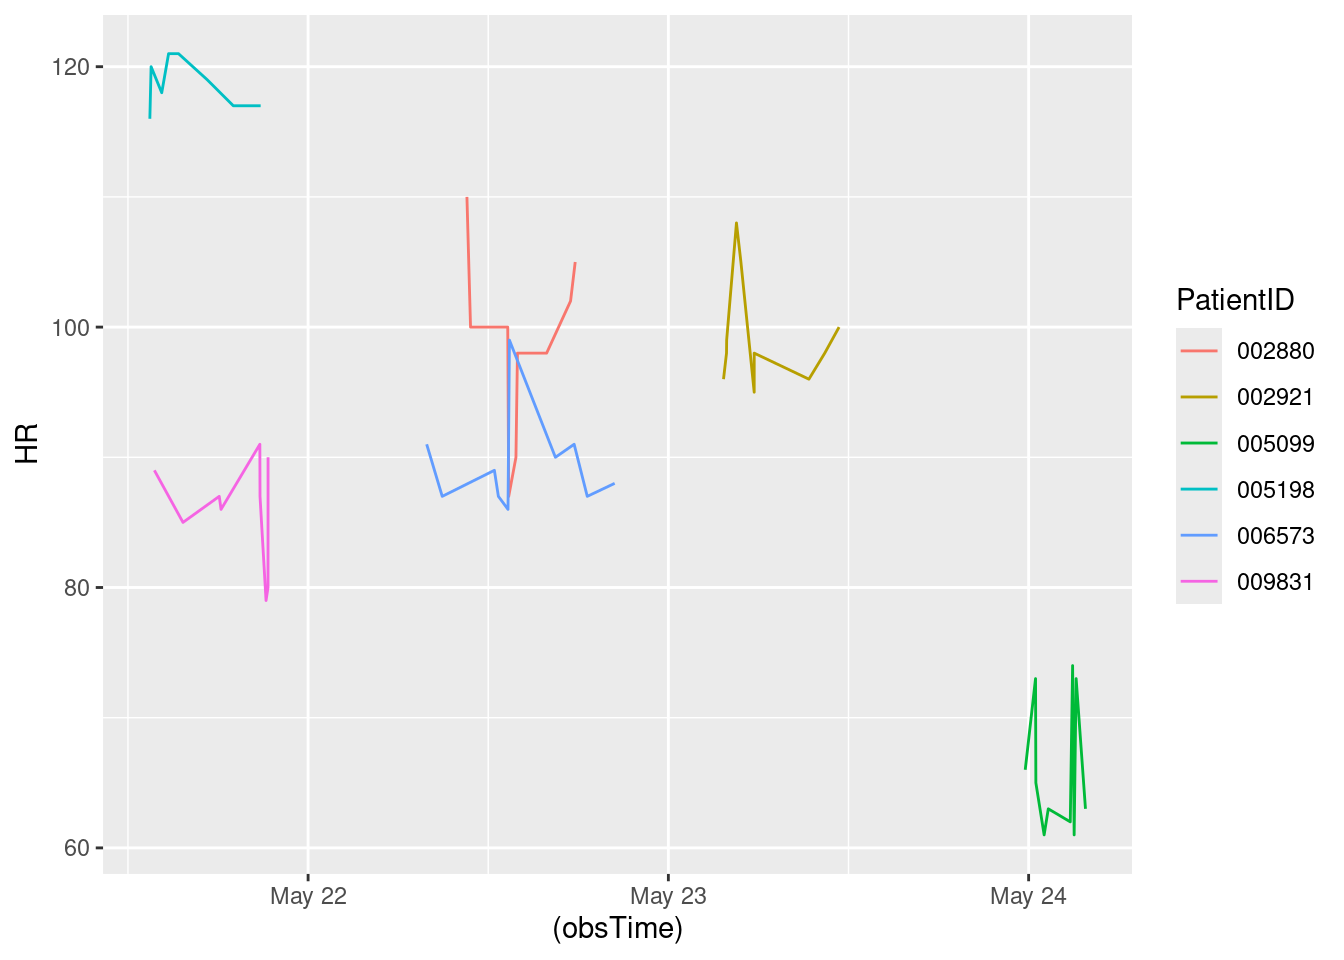
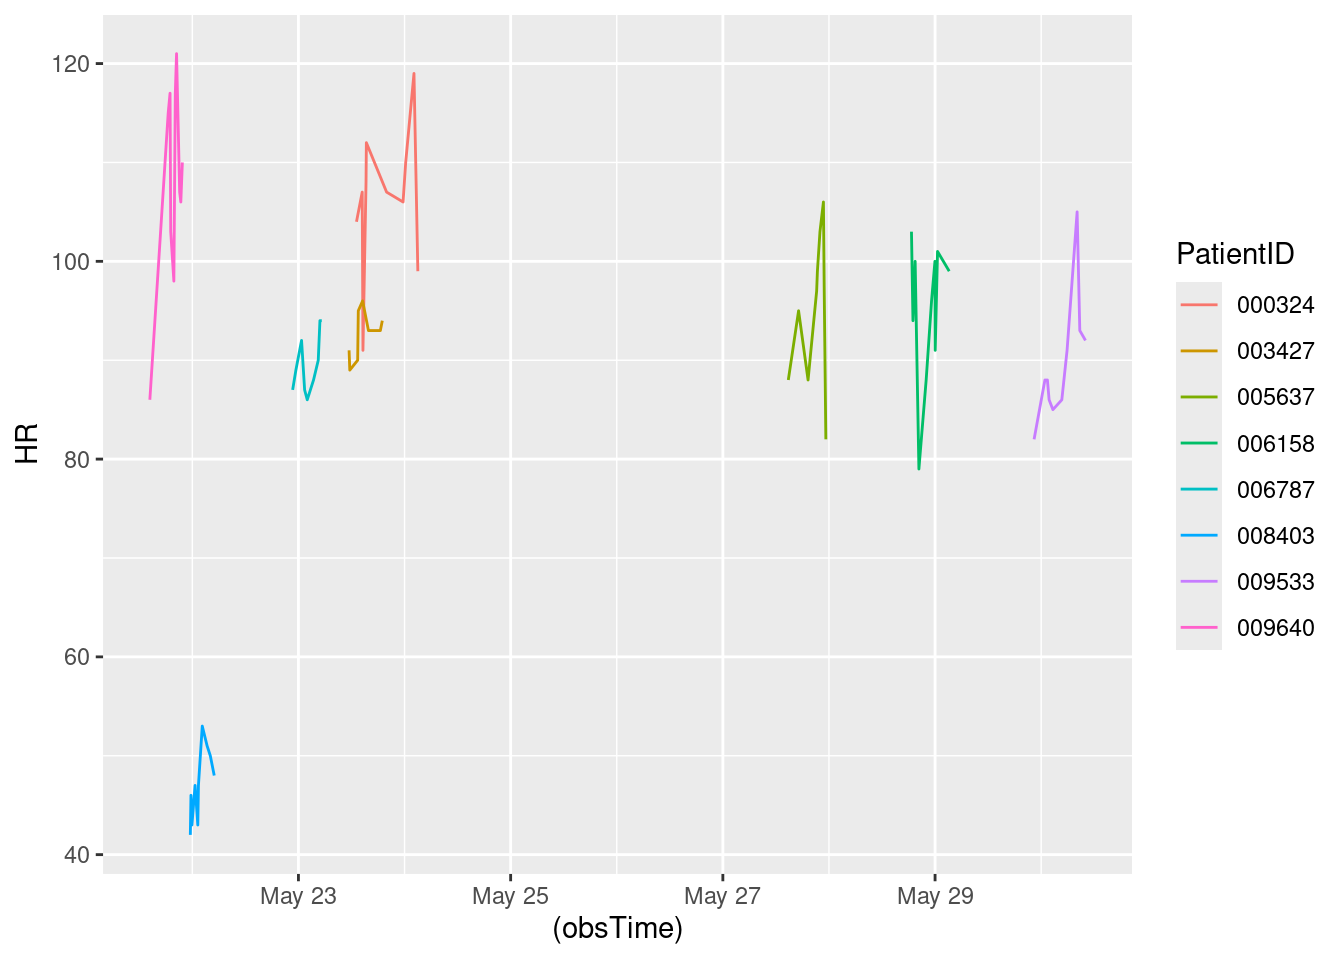
Updated report

diff --git a/HW7.html b/HW7.html
@@ -152,7 +152,7 @@ The following object is masked from 'package:purrr':
 </div>
 <div class="sourceCode cell-code" id="cb8"><pre class="sourceCode r code-with-copy"><code class="sourceCode r"><span id="cb8-1"><a href="#cb8-1" aria-hidden="true" tabindex="-1"></a><span class="fu">toc</span>()</span></code><button title="Copy to Clipboard" class="code-copy-button"><i class="bi"></i></button></pre></div>
 <div class="cell-output cell-output-stdout">
-<pre><code>16.273 sec elapsed</code></pre>
+<pre><code>12.818 sec elapsed</code></pre>
 </div>
 <div class="sourceCode cell-code" id="cb10"><pre class="sourceCode r code-with-copy"><code class="sourceCode r"><span id="cb10-1"><a href="#cb10-1" aria-hidden="true" tabindex="-1"></a><span class="fu">tic</span>()</span>
 <span id="cb10-2"><a href="#cb10-2" aria-hidden="true" tabindex="-1"></a>test1<span class="ot">=</span><span class="fu">makeSepsisDataset</span>(<span class="at">n=</span><span class="dv">50</span>,<span class="at">read_fn =</span> <span class="st">"read_delim"</span>)</span>
@@ -162,7 +162,7 @@ The following object is masked from 'package:purrr':
 </div>
 <div class="sourceCode cell-code" id="cb12"><pre class="sourceCode r code-with-copy"><code class="sourceCode r"><span id="cb12-1"><a href="#cb12-1" aria-hidden="true" tabindex="-1"></a><span class="fu">toc</span>()</span></code><button title="Copy to Clipboard" class="code-copy-button"><i class="bi"></i></button></pre></div>
 <div class="cell-output cell-output-stdout">
-<pre><code>9.255 sec elapsed</code></pre>
+<pre><code>10.935 sec elapsed</code></pre>
 </div>
 <div class="sourceCode cell-code" id="cb14"><pre class="sourceCode r code-with-copy"><code class="sourceCode r"><span id="cb14-1"><a href="#cb14-1" aria-hidden="true" tabindex="-1"></a><span class="fu">tic</span>()</span>
 <span id="cb14-2"><a href="#cb14-2" aria-hidden="true" tabindex="-1"></a>test1<span class="ot">=</span><span class="fu">makeSepsisDataset</span>(<span class="at">n=</span><span class="dv">100</span>,<span class="at">read_fn =</span> <span class="st">"fread"</span>)</span>
@@ -172,7 +172,7 @@ The following object is masked from 'package:purrr':
 </div>
 <div class="sourceCode cell-code" id="cb16"><pre class="sourceCode r code-with-copy"><code class="sourceCode r"><span id="cb16-1"><a href="#cb16-1" aria-hidden="true" tabindex="-1"></a><span class="fu">toc</span>()</span></code><button title="Copy to Clipboard" class="code-copy-button"><i class="bi"></i></button></pre></div>
 <div class="cell-output cell-output-stdout">
-<pre><code>21.892 sec elapsed</code></pre>
+<pre><code>25.772 sec elapsed</code></pre>
 </div>
 <div class="sourceCode cell-code" id="cb18"><pre class="sourceCode r code-with-copy"><code class="sourceCode r"><span id="cb18-1"><a href="#cb18-1" aria-hidden="true" tabindex="-1"></a><span class="fu">tic</span>()</span>
 <span id="cb18-2"><a href="#cb18-2" aria-hidden="true" tabindex="-1"></a>test1<span class="ot">=</span><span class="fu">makeSepsisDataset</span>(<span class="at">n=</span><span class="dv">100</span>,<span class="at">read_fn =</span> <span class="st">"read_delim"</span>)</span>
@@ -182,7 +182,7 @@ The following object is masked from 'package:purrr':
 </div>
 <div class="sourceCode cell-code" id="cb20"><pre class="sourceCode r code-with-copy"><code class="sourceCode r"><span id="cb20-1"><a href="#cb20-1" aria-hidden="true" tabindex="-1"></a><span class="fu">toc</span>()</span></code><button title="Copy to Clipboard" class="code-copy-button"><i class="bi"></i></button></pre></div>
 <div class="cell-output cell-output-stdout">
-<pre><code>17.681 sec elapsed</code></pre>
+<pre><code>21.421 sec elapsed</code></pre>
 </div>
 <div class="sourceCode cell-code" id="cb22"><pre class="sourceCode r code-with-copy"><code class="sourceCode r"><span id="cb22-1"><a href="#cb22-1" aria-hidden="true" tabindex="-1"></a><span class="fu">tic</span>()</span>
 <span id="cb22-2"><a href="#cb22-2" aria-hidden="true" tabindex="-1"></a>test1<span class="ot">=</span><span class="fu">makeSepsisDataset</span>(<span class="at">n=</span><span class="dv">500</span>,<span class="at">read_fn =</span> <span class="st">"fread"</span>)</span>
@@ -192,7 +192,7 @@ The following object is masked from 'package:purrr':
 </div>
 <div class="sourceCode cell-code" id="cb24"><pre class="sourceCode r code-with-copy"><code class="sourceCode r"><span id="cb24-1"><a href="#cb24-1" aria-hidden="true" tabindex="-1"></a><span class="fu">toc</span>()</span></code><button title="Copy to Clipboard" class="code-copy-button"><i class="bi"></i></button></pre></div>
 <div class="cell-output cell-output-stdout">
-<pre><code>101.643 sec elapsed</code></pre>
+<pre><code>128.792 sec elapsed</code></pre>
 </div>
 <div class="sourceCode cell-code" id="cb26"><pre class="sourceCode r code-with-copy"><code class="sourceCode r"><span id="cb26-1"><a href="#cb26-1" aria-hidden="true" tabindex="-1"></a><span class="fu">tic</span>()</span>
 <span id="cb26-2"><a href="#cb26-2" aria-hidden="true" tabindex="-1"></a>test1<span class="ot">=</span><span class="fu">makeSepsisDataset</span>(<span class="at">n=</span><span class="dv">500</span>,<span class="at">read_fn =</span> <span class="st">"read_delim"</span>)</span>
@@ -202,7 +202,7 @@ The following object is masked from 'package:purrr':
 </div>
 <div class="sourceCode cell-code" id="cb28"><pre class="sourceCode r code-with-copy"><code class="sourceCode r"><span id="cb28-1"><a href="#cb28-1" aria-hidden="true" tabindex="-1"></a><span class="fu">toc</span>()</span></code><button title="Copy to Clipboard" class="code-copy-button"><i class="bi"></i></button></pre></div>
 <div class="cell-output cell-output-stdout">
-<pre><code>90.295 sec elapsed</code></pre>
+<pre><code>109.009 sec elapsed</code></pre>
 </div>
 </div>
 <p>Problem 3: Speed reading</p>
@@ -244,7 +244,7 @@ dttm (1): obsTime
 <div class="sourceCode cell-code" id="cb35"><pre class="sourceCode r code-with-copy"><code class="sourceCode r"><span id="cb35-1"><a href="#cb35-1" aria-hidden="true" tabindex="-1"></a><span class="co">#Sys.Date()</span></span>
 <span id="cb35-2"><a href="#cb35-2" aria-hidden="true" tabindex="-1"></a><span class="fu">Sys.time</span>()</span></code><button title="Copy to Clipboard" class="code-copy-button"><i class="bi"></i></button></pre></div>
 <div class="cell-output cell-output-stdout">
-<pre><code>[1] "2024-05-21 13:27:29 UTC"</code></pre>
+<pre><code>[1] "2024-05-21 14:23:26 UTC"</code></pre>
 </div>
 <div class="sourceCode cell-code" id="cb37"><pre class="sourceCode r code-with-copy"><code class="sourceCode r"><span id="cb37-1"><a href="#cb37-1" aria-hidden="true" tabindex="-1"></a>dfnew<span class="ot">=</span>df <span class="sc">%&gt;%</span><span class="fu">subset</span>(SepsisLabel<span class="sc">==</span><span class="dv">1</span>)</span>
 <span id="cb37-2"><a href="#cb37-2" aria-hidden="true" tabindex="-1"></a></span>
@@ -259,25 +259,23 @@ dttm (1): obsTime
 <span id="cb37-11"><a href="#cb37-11" aria-hidden="true" tabindex="-1"></a></span>
 <span id="cb37-12"><a href="#cb37-12" aria-hidden="true" tabindex="-1"></a><span class="fu">print</span>(res)</span></code><button title="Copy to Clipboard" class="code-copy-button"><i class="bi"></i></button></pre></div>
 <div class="cell-output cell-output-stdout">
-<pre><code># A tibble: 6 × 7
-# Groups:   PatientID [6]
+<pre><code># A tibble: 8 × 7
+# Groups:   PatientID [8]
   PatientID ICULOS    HR  Temp  Resp SepsisLabel obsTime            
   &lt;chr&gt;      &lt;int&gt; &lt;int&gt; &lt;dbl&gt; &lt;int&gt;       &lt;int&gt; &lt;dttm&gt;             
-1 002880        29    NA  NA      NA           1 2024-05-22 18:11:41
-2 002921        48   100  NA      21           1 2024-05-23 11:22:20
-3 005099        63    63  37.8    18           1 2024-05-24 03:47:11
-4 005198         8   117  NA      30           1 2024-05-21 20:50:22
-5 006573        31    88  NA      20           1 2024-05-22 20:25:24
-6 009831         9    90  NA      17           1 2024-05-21 21:19:57</code></pre>
+1 000324        62    99  NA      27           1 2024-05-24 03:00:28
+2 003427        53    94  NA      19           1 2024-05-23 18:58:10
+3 005637       155    82  NA      23           1 2024-05-27 23:17:44
+4 006158       181    99  NA      19           1 2024-05-29 03:11:57
+5 006787        39    94  NA      18           1 2024-05-23 05:16:41
+6 008403        18    48  NA      20           1 2024-05-22 04:57:05
+7 009533       213    92  NA      21           1 2024-05-30 10:01:10
+8 009640         9   110  39.2    21           1 2024-05-21 21:44:43</code></pre>
 </div>
 </div>
 <div class="cell">
 <div class="sourceCode cell-code" id="cb39"><pre class="sourceCode r code-with-copy"><code class="sourceCode r"><span id="cb39-1"><a href="#cb39-1" aria-hidden="true" tabindex="-1"></a>dfnew <span class="sc">%&gt;%</span></span>
 <span id="cb39-2"><a href="#cb39-2" aria-hidden="true" tabindex="-1"></a>  <span class="fu">ggplot</span>()<span class="sc">+</span><span class="fu">geom_line</span>(<span class="fu">aes</span>(<span class="at">y=</span>HR,<span class="at">x=</span>(obsTime),<span class="at">color=</span>PatientID))</span></code><button title="Copy to Clipboard" class="code-copy-button"><i class="bi"></i></button></pre></div>
-<div class="cell-output cell-output-stderr">
-<pre><code>Warning: Removed 1 row containing missing values or values outside the scale range
-(`geom_line()`).</code></pre>
-</div>
 <div class="cell-output-display">
 <div>
 <figure class="figure">
@@ -290,7 +288,7 @@ dttm (1): obsTime
 <section id="display-the-most-recent-data" class="level2">
 <h2 class="anchored" data-anchor-id="display-the-most-recent-data">Display the most recent data</h2>
 <div class="cell">
-<div class="sourceCode cell-code" id="cb41"><pre class="sourceCode r code-with-copy"><code class="sourceCode r"><span id="cb41-1"><a href="#cb41-1" aria-hidden="true" tabindex="-1"></a>most_recent_data</span></code><button title="Copy to Clipboard" class="code-copy-button"><i class="bi"></i></button></pre></div>
+<div class="sourceCode cell-code" id="cb40"><pre class="sourceCode r code-with-copy"><code class="sourceCode r"><span id="cb40-1"><a href="#cb40-1" aria-hidden="true" tabindex="-1"></a>most_recent_data</span></code><button title="Copy to Clipboard" class="code-copy-button"><i class="bi"></i></button></pre></div>
 <div class="cell-output cell-output-stdout">
 <pre><code># A tibble: 50 × 7
 # Groups:   PatientID [50]
@@ -313,32 +311,32 @@ dttm (1): obsTime
 <section id="calculate-the-difference" class="level2">
 <h2 class="anchored" data-anchor-id="calculate-the-difference">Calculate the difference</h2>
 <div class="cell">
-<div class="sourceCode cell-code" id="cb43"><pre class="sourceCode r code-with-copy"><code class="sourceCode r"><span id="cb43-1"><a href="#cb43-1" aria-hidden="true" tabindex="-1"></a><span class="fu">library</span>(dplyr)</span>
-<span id="cb43-2"><a href="#cb43-2" aria-hidden="true" tabindex="-1"></a><span class="fu">library</span>(tidyr)</span>
-<span id="cb43-3"><a href="#cb43-3" aria-hidden="true" tabindex="-1"></a><span class="fu">library</span>(knitr)</span>
-<span id="cb43-4"><a href="#cb43-4" aria-hidden="true" tabindex="-1"></a>get_observation_data <span class="ot">&lt;-</span> <span class="cf">function</span>(data, n, column_suffix) {</span>
-<span id="cb43-5"><a href="#cb43-5" aria-hidden="true" tabindex="-1"></a>  data <span class="sc">%&gt;%</span></span>
-<span id="cb43-6"><a href="#cb43-6" aria-hidden="true" tabindex="-1"></a>    <span class="fu">group_by</span>(PatientID) <span class="sc">%&gt;%</span></span>
-<span id="cb43-7"><a href="#cb43-7" aria-hidden="true" tabindex="-1"></a>    <span class="fu">slice_max</span>(<span class="at">order_by =</span> obsTime, <span class="at">n =</span> n) <span class="sc">%&gt;%</span></span>
-<span id="cb43-8"><a href="#cb43-8" aria-hidden="true" tabindex="-1"></a>    <span class="fu">select</span>(<span class="sc">-</span><span class="fu">c</span>(ICULOS, SepsisLabel, obsTime)) <span class="sc">%&gt;%</span></span>
-<span id="cb43-9"><a href="#cb43-9" aria-hidden="true" tabindex="-1"></a>    <span class="fu">rename_at</span>(<span class="fu">vars</span>(HR, Temp, Resp),</span>
-<span id="cb43-10"><a href="#cb43-10" aria-hidden="true" tabindex="-1"></a>              <span class="fu">list</span>(<span class="sc">~</span><span class="fu">paste0</span>(., <span class="st">"_"</span>, column_suffix)))</span>
-<span id="cb43-11"><a href="#cb43-11" aria-hidden="true" tabindex="-1"></a>}</span>
-<span id="cb43-12"><a href="#cb43-12" aria-hidden="true" tabindex="-1"></a></span>
-<span id="cb43-13"><a href="#cb43-13" aria-hidden="true" tabindex="-1"></a></span>
-<span id="cb43-14"><a href="#cb43-14" aria-hidden="true" tabindex="-1"></a></span>
-<span id="cb43-15"><a href="#cb43-15" aria-hidden="true" tabindex="-1"></a></span>
-<span id="cb43-16"><a href="#cb43-16" aria-hidden="true" tabindex="-1"></a>last_obs <span class="ot">&lt;-</span> <span class="fu">get_observation_data</span>(new_data, <span class="dv">1</span>, <span class="st">"last"</span>)</span>
-<span id="cb43-17"><a href="#cb43-17" aria-hidden="true" tabindex="-1"></a>penultimate_obs <span class="ot">&lt;-</span> <span class="fu">get_observation_data</span>(new_data, <span class="dv">2</span>, <span class="st">"penult"</span>)</span>
-<span id="cb43-18"><a href="#cb43-18" aria-hidden="true" tabindex="-1"></a>joined_data <span class="ot">&lt;-</span> <span class="fu">full_join</span>(last_obs, penultimate_obs) <span class="sc">%&gt;%</span></span>
-<span id="cb43-19"><a href="#cb43-19" aria-hidden="true" tabindex="-1"></a>  <span class="fu">transmute</span>(PatientID,</span>
-<span id="cb43-20"><a href="#cb43-20" aria-hidden="true" tabindex="-1"></a>            <span class="st">`</span><span class="at">Temperature change</span><span class="st">`</span> <span class="ot">=</span> Temp_last <span class="sc">-</span> Temp_penult,</span>
-<span id="cb43-21"><a href="#cb43-21" aria-hidden="true" tabindex="-1"></a>            <span class="st">`</span><span class="at">Heart rate change</span><span class="st">`</span> <span class="ot">=</span> HR_last <span class="sc">-</span> HR_penult,</span>
-<span id="cb43-22"><a href="#cb43-22" aria-hidden="true" tabindex="-1"></a>            <span class="st">`</span><span class="at">Respiratory rate change</span><span class="st">`</span> <span class="ot">=</span> Resp_last <span class="sc">-</span> Resp_penult)</span></code><button title="Copy to Clipboard" class="code-copy-button"><i class="bi"></i></button></pre></div>
+<div class="sourceCode cell-code" id="cb42"><pre class="sourceCode r code-with-copy"><code class="sourceCode r"><span id="cb42-1"><a href="#cb42-1" aria-hidden="true" tabindex="-1"></a><span class="fu">library</span>(dplyr)</span>
+<span id="cb42-2"><a href="#cb42-2" aria-hidden="true" tabindex="-1"></a><span class="fu">library</span>(tidyr)</span>
+<span id="cb42-3"><a href="#cb42-3" aria-hidden="true" tabindex="-1"></a><span class="fu">library</span>(knitr)</span>
+<span id="cb42-4"><a href="#cb42-4" aria-hidden="true" tabindex="-1"></a>get_observation_data <span class="ot">&lt;-</span> <span class="cf">function</span>(data, n, column_suffix) {</span>
+<span id="cb42-5"><a href="#cb42-5" aria-hidden="true" tabindex="-1"></a>  data <span class="sc">%&gt;%</span></span>
+<span id="cb42-6"><a href="#cb42-6" aria-hidden="true" tabindex="-1"></a>    <span class="fu">group_by</span>(PatientID) <span class="sc">%&gt;%</span></span>
+<span id="cb42-7"><a href="#cb42-7" aria-hidden="true" tabindex="-1"></a>    <span class="fu">slice_max</span>(<span class="at">order_by =</span> obsTime, <span class="at">n =</span> n) <span class="sc">%&gt;%</span></span>
+<span id="cb42-8"><a href="#cb42-8" aria-hidden="true" tabindex="-1"></a>    <span class="fu">select</span>(<span class="sc">-</span><span class="fu">c</span>(ICULOS, SepsisLabel, obsTime)) <span class="sc">%&gt;%</span></span>
+<span id="cb42-9"><a href="#cb42-9" aria-hidden="true" tabindex="-1"></a>    <span class="fu">rename_at</span>(<span class="fu">vars</span>(HR, Temp, Resp),</span>
+<span id="cb42-10"><a href="#cb42-10" aria-hidden="true" tabindex="-1"></a>              <span class="fu">list</span>(<span class="sc">~</span><span class="fu">paste0</span>(., <span class="st">"_"</span>, column_suffix)))</span>
+<span id="cb42-11"><a href="#cb42-11" aria-hidden="true" tabindex="-1"></a>}</span>
+<span id="cb42-12"><a href="#cb42-12" aria-hidden="true" tabindex="-1"></a></span>
+<span id="cb42-13"><a href="#cb42-13" aria-hidden="true" tabindex="-1"></a></span>
+<span id="cb42-14"><a href="#cb42-14" aria-hidden="true" tabindex="-1"></a></span>
+<span id="cb42-15"><a href="#cb42-15" aria-hidden="true" tabindex="-1"></a></span>
+<span id="cb42-16"><a href="#cb42-16" aria-hidden="true" tabindex="-1"></a>last_obs <span class="ot">&lt;-</span> <span class="fu">get_observation_data</span>(new_data, <span class="dv">1</span>, <span class="st">"last"</span>)</span>
+<span id="cb42-17"><a href="#cb42-17" aria-hidden="true" tabindex="-1"></a>penultimate_obs <span class="ot">&lt;-</span> <span class="fu">get_observation_data</span>(new_data, <span class="dv">2</span>, <span class="st">"penult"</span>)</span>
+<span id="cb42-18"><a href="#cb42-18" aria-hidden="true" tabindex="-1"></a>joined_data <span class="ot">&lt;-</span> <span class="fu">full_join</span>(last_obs, penultimate_obs) <span class="sc">%&gt;%</span></span>
+<span id="cb42-19"><a href="#cb42-19" aria-hidden="true" tabindex="-1"></a>  <span class="fu">transmute</span>(PatientID,</span>
+<span id="cb42-20"><a href="#cb42-20" aria-hidden="true" tabindex="-1"></a>            <span class="st">`</span><span class="at">Temperature change</span><span class="st">`</span> <span class="ot">=</span> Temp_last <span class="sc">-</span> Temp_penult,</span>
+<span id="cb42-21"><a href="#cb42-21" aria-hidden="true" tabindex="-1"></a>            <span class="st">`</span><span class="at">Heart rate change</span><span class="st">`</span> <span class="ot">=</span> HR_last <span class="sc">-</span> HR_penult,</span>
+<span id="cb42-22"><a href="#cb42-22" aria-hidden="true" tabindex="-1"></a>            <span class="st">`</span><span class="at">Respiratory rate change</span><span class="st">`</span> <span class="ot">=</span> Resp_last <span class="sc">-</span> Resp_penult)</span></code><button title="Copy to Clipboard" class="code-copy-button"><i class="bi"></i></button></pre></div>
 <div class="cell-output cell-output-stderr">
 <pre><code>Joining with `by = join_by(PatientID)`</code></pre>
 </div>
-<div class="sourceCode cell-code" id="cb45"><pre class="sourceCode r code-with-copy"><code class="sourceCode r"><span id="cb45-1"><a href="#cb45-1" aria-hidden="true" tabindex="-1"></a><span class="fu">kable</span>(joined_data, <span class="at">caption =</span> <span class="st">"Patients' Recent Changes in Vital Stats"</span>)</span></code><button title="Copy to Clipboard" class="code-copy-button"><i class="bi"></i></button></pre></div>
+<div class="sourceCode cell-code" id="cb44"><pre class="sourceCode r code-with-copy"><code class="sourceCode r"><span id="cb44-1"><a href="#cb44-1" aria-hidden="true" tabindex="-1"></a><span class="fu">kable</span>(joined_data, <span class="at">caption =</span> <span class="st">"Patients' Recent Changes in Vital Stats"</span>)</span></code><button title="Copy to Clipboard" class="code-copy-button"><i class="bi"></i></button></pre></div>
 <div class="cell-output-display">
 <table class="table table-sm table-striped small">
 <caption>Patients’ Recent Changes in Vital Stats</caption>
